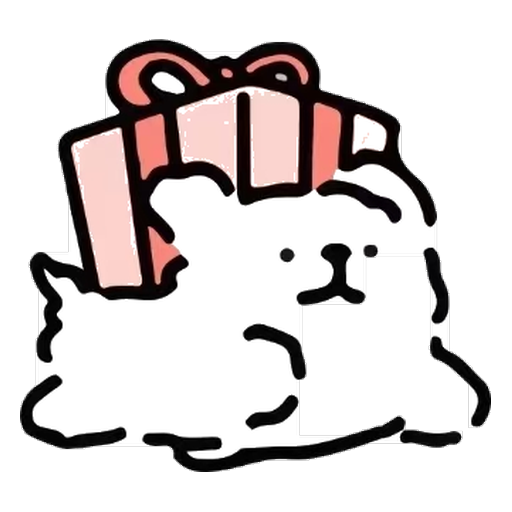
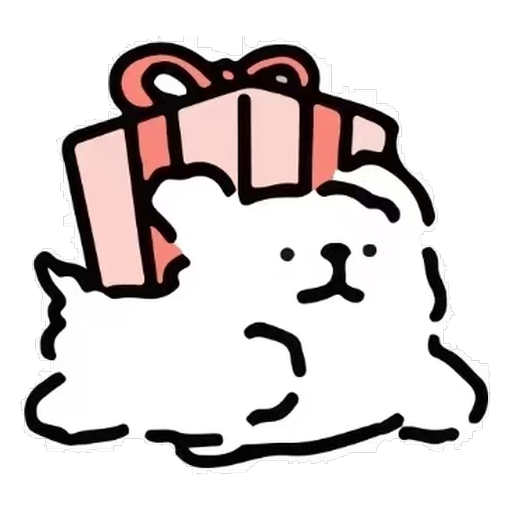
修好「坐坐狗」的抠图：背景 254 / 狗身 255 只差一级
04-raw.jpg 的背景是纯 254，狗身的白是 255，两者只差一级灰度。原来的容差
抠图把狗身那层白当成背景吃掉了，成品上狗身中间裂开一道缝（尾巴和身体断开）。

- tools/cutout.py 增加「精确背景色 + 从边缘连通」的分割方式，按图启用
  （EXACT_BG_SLUGS），只对背景极干净且与狗身白只差一级的图生效；
- 重新生成 assets/dogs/04-sit.png / .webp / parts.js / blur.js；
- 其它 9 只素材逐字节未变；physics / gameplay 自检全通过。

diff --git a/assets/dogs/blur.js b/assets/dogs/blur.js
@@ -1,7 +1,7 @@
 /* 自动生成，别手改 —— 改缩略图请跑 tools/make_blur.py */
 /* 贴图还没到位时画的极模糊占位（内联 data URL，零额外请求） */
 window.FRUIT_BLUR = {
[2 lines of base64/hex data omitted]
   cell: 32,
   cols: 10
 };

diff --git a/assets/dogs/parts.js b/assets/dogs/parts.js
@@ -1,3 +1,3 @@
 /* 自动生成，请勿手改 —— 由 tools/build_parts.py 生成
    parts: [ox, oy, s]，单位是「以 r 为 1」；rb: 碰撞包围圆半径（同样以 r 为单位） */
-window.SUIKA_PARTS = [{"parts":[[0.144,-0.289,0.29],[-0.34,0.17,0.201],[0.153,0.098,0.347],[0.331,0.149,0.311],[0.123,0.284,0.33],[0.331,0.284,0.257],[-0.106,-0.136,0.337],[0.403,-0.157,0.335],[0.645,0.17,0.292],[0.327,0.548,0.281],[-0.208,0.323,0.279],[-0.03,0.577,0.256],[0.11,-0.577,0.195],[-0.526,0.246,0.166],[0.594,0.459,0.126],[-0.081,-0.476,0.121],[0.352,-0.493,0.119],[-0.518,0.076,0.1]],"rb":0.96},{"parts":[[-0.306,-0.586,0.259],[-0.025,-0.34,0.322],[0.297,-0.34,0.288],[-0.306,-0.042,0.32],[0.068,-0.076,0.359],[0.297,-0.127,0.337],[-0.306,0.331,0.226],[-0.115,0.331,0.315],[0.297,0.331,0.221],[-0.246,0.62,0.318],[0.454,0.174,0.306],[0.518,-0.526,0.304],[0.17,-0.599,0.263],[0.633,-0.093,0.25],[-0.62,-0.106,0.233],[0.153,0.501,0.229],[0.526,0.471,0.212],[-0.463,-0.794,0.197]],"rb":1.116},{"parts":[[-0.335,-0.335,0.219],[-0.187,-0.335,0.336],[0.327,-0.335,0.278],[-0.335,0.017,0.347],[-0.055,0.047,0.374],[0.327,-0.242,0.3],[-0.335,0.327,0.211],[-0.089,0.327,0.345],[0.327,0.603,0.301],[0.318,0.059,0.413],[-0.2,-0.675,0.309],[0.607,-0.429,0.285],[-0.577,-0.234,0.262],[-0.671,0.115,0.251],[-0.217,0.65,0.242],[0.025,0.654,0.238],[-0.425,0.518,0.202],[-0.548,0.335,0.2]],"rb":1.028},{"parts":[[-0.34,-0.31,0.268],[-0.195,-0.31,0.345],[-0.361,0.255,0.324],[-0.166,-0.255,0.355],[0.331,-0.284,0.242],[-0.34,0.301,0.317],[-0.331,0.301,0.321],[-0.463,-0.059,0.34],[0.161,-0.11,0.337],[-0.607,0.476,0.331],[-0.149,0.569,0.331],[0.132,-0.45,0.321],[-0.352,-0.62,0.293],[-0.038,0.161,0.255],[-0.603,-0.374,0.228],[-0.722,0.161,0.204],[0.556,-0.195,0.193],[-0.072,-0.705,0.166]],"rb":1.102},{"parts":[[-0.539,-0.221,0.278],[-0.335,-0.221,0.217],[0.662,-0.255,0.239],[-0.34,-0.008,0.269],[-0.144,0.017,0.306],[0.331,0.0,0.261],[-0.535,0.217,0.266],[-0.127,0.217,0.24],[0.412,0.217,0.229],[0.115,-0.149,0.284],[0.127,0.166,0.284],[-0.684,0.437,0.221],[-0.777,-0.365,0.216],[0.548,0.403,0.212],[0.42,-0.246,0.166],[-0.132,-0.297,0.166],[-0.607,-0.501,0.154],[0.594,-0.025,0.14]],"rb":1.075},{"parts":[[-0.191,-0.246,0.265],[-0.34,0.238,0.204],[-0.017,0.055,0.322],[0.331,0.034,0.244],[-0.34,0.297,0.221],[-0.153,0.238,0.308],[0.166,-0.212,0.335],[0.149,0.335,0.308],[-0.331,-0.017,0.217],[-0.191,0.543,0.172],[-0.51,0.442,0.161],[-0.56,0.276,0.142],[0.323,0.59,0.123],[0.735,0.183,0.115],[0.548,0.149,0.106],[-0.395,-0.416,0.096],[0.429,-0.42,0.093],[-0.365,0.518,0.089]],"rb":0.872},{"parts":[[-0.34,-0.293,0.213],[0.204,-0.293,0.323],[0.331,-0.293,0.203],[-0.34,-0.204,0.301],[0.055,-0.195,0.349],[0.331,-0.183,0.313],[0.089,0.284,0.242],[0.633,-0.072,0.283],[-0.628,-0.11,0.279],[-0.318,-0.505,0.276],[-0.093,0.123,0.224],[0.293,-0.607,0.207],[-0.042,-0.531,0.187],[0.03,0.522,0.138],[0.467,-0.48,0.116],[0.276,0.127,0.108],[-0.9,-0.042,0.106],[-0.166,0.335,0.106]],"rb":1.007},{"parts":[[-0.654,-0.352,0.286],[0.055,-0.234,0.238],[0.662,-0.369,0.286],[-0.34,0.187,0.274],[0.055,0.085,0.313],[0.331,0.183,0.273],[-0.34,0.225,0.227],[-0.17,0.225,0.31],[0.331,0.225,0.228],[-0.259,-0.076,0.416],[0.357,-0.089,0.403],[0.144,0.386,0.297],[0.459,0.425,0.2],[-0.433,0.446,0.191],[-0.611,0.229,0.185],[0.611,0.225,0.183],[-0.119,0.531,0.153],[-0.272,0.552,0.119]],"rb":1.044},{"parts":[[-0.34,-0.357,0.267],[-0.106,-0.318,0.348],[-0.34,0.076,0.339],[-0.212,0.076,0.368],[-0.382,0.314,0.286],[-0.021,0.314,0.331],[0.331,0.556,0.279],[0.132,-0.064,0.395],[-0.051,-0.662,0.289],[-0.522,0.565,0.284],[-0.565,-0.501,0.267],[-0.675,0.021,0.257],[0.616,0.671,0.255],[0.217,-0.45,0.246],[-0.565,-0.212,0.238],[-0.238,0.565,0.234],[0.059,0.637,0.234],[-0.667,0.28,0.2]],"rb":1.165},{"parts":[[-0.437,-0.217,0.22],[-0.161,-0.217,0.27],[0.331,-0.221,0.205],[-0.34,-0.123,0.279],[-0.098,0.025,0.303],[0.331,-0.081,0.276],[-0.34,0.212,0.207],[-0.106,0.212,0.292],[0.331,0.212,0.183],[0.11,-0.251,0.297],[0.17,0.31,0.293],[-0.437,0.395,0.217],[-0.611,-0.059,0.212],[0.599,-0.004,0.194],[-0.577,-0.391,0.191],[0.459,-0.382,0.187],[0.794,0.025,0.17],[-0.824,-0.034,0.163]],"rb":0.988}];
+window.SUIKA_PARTS = [{"parts":[[0.144,-0.289,0.29],[-0.34,0.17,0.201],[0.153,0.098,0.347],[0.331,0.149,0.311],[0.123,0.284,0.33],[0.331,0.284,0.257],[-0.106,-0.136,0.337],[0.403,-0.157,0.335],[0.645,0.17,0.292],[0.327,0.548,0.281],[-0.208,0.323,0.279],[-0.03,0.577,0.256],[0.11,-0.577,0.195],[-0.526,0.246,0.166],[0.594,0.459,0.126],[-0.081,-0.476,0.121],[0.352,-0.493,0.119],[-0.518,0.076,0.1]],"rb":0.96},{"parts":[[-0.306,-0.586,0.259],[-0.025,-0.34,0.322],[0.297,-0.34,0.288],[-0.306,-0.042,0.32],[0.068,-0.076,0.359],[0.297,-0.127,0.337],[-0.306,0.331,0.226],[-0.115,0.331,0.315],[0.297,0.331,0.221],[-0.246,0.62,0.318],[0.454,0.174,0.306],[0.518,-0.526,0.304],[0.17,-0.599,0.263],[0.633,-0.093,0.25],[-0.62,-0.106,0.233],[0.153,0.501,0.229],[0.526,0.471,0.212],[-0.463,-0.794,0.197]],"rb":1.116},{"parts":[[-0.335,-0.335,0.219],[-0.187,-0.335,0.336],[0.327,-0.335,0.278],[-0.335,0.017,0.347],[-0.055,0.047,0.374],[0.327,-0.242,0.3],[-0.335,0.327,0.211],[-0.089,0.327,0.345],[0.327,0.603,0.301],[0.318,0.059,0.413],[-0.2,-0.675,0.309],[0.607,-0.429,0.285],[-0.577,-0.234,0.262],[-0.671,0.115,0.251],[-0.217,0.65,0.242],[0.025,0.654,0.238],[-0.425,0.518,0.202],[-0.548,0.335,0.2]],"rb":1.028},{"parts":[[-0.335,-0.314,0.265],[-0.157,-0.314,0.35],[-0.335,0.276,0.324],[-0.017,0.098,0.365],[0.331,0.238,0.299],[-0.335,0.306,0.313],[-0.093,0.306,0.354],[0.331,0.386,0.311],[0.178,-0.212,0.527],[-0.386,-0.047,0.381],[-0.586,0.497,0.288],[-0.31,-0.633,0.282],[0.102,0.603,0.267],[-0.161,0.654,0.258],[-0.662,0.217,0.25],[0.611,0.526,0.249],[-0.594,-0.369,0.225],[0.616,0.144,0.203]],"rb":1.056},{"parts":[[-0.539,-0.221,0.278],[-0.335,-0.221,0.217],[0.662,-0.255,0.239],[-0.34,-0.008,0.269],[-0.144,0.017,0.306],[0.331,0.0,0.261],[-0.535,0.217,0.266],[-0.127,0.217,0.24],[0.412,0.217,0.229],[0.115,-0.149,0.284],[0.127,0.166,0.284],[-0.684,0.437,0.221],[-0.777,-0.365,0.216],[0.548,0.403,0.212],[0.42,-0.246,0.166],[-0.132,-0.297,0.166],[-0.607,-0.501,0.154],[0.594,-0.025,0.14]],"rb":1.075},{"parts":[[-0.191,-0.246,0.265],[-0.34,0.238,0.204],[-0.017,0.055,0.322],[0.331,0.034,0.244],[-0.34,0.297,0.221],[-0.153,0.238,0.308],[0.166,-0.212,0.335],[0.149,0.335,0.308],[-0.331,-0.017,0.217],[-0.191,0.543,0.172],[-0.51,0.442,0.161],[-0.56,0.276,0.142],[0.323,0.59,0.123],[0.735,0.183,0.115],[0.548,0.149,0.106],[-0.395,-0.416,0.096],[0.429,-0.42,0.093],[-0.365,0.518,0.089]],"rb":0.872},{"parts":[[-0.34,-0.293,0.213],[0.204,-0.293,0.323],[0.331,-0.293,0.203],[-0.34,-0.204,0.301],[0.055,-0.195,0.349],[0.331,-0.183,0.313],[0.089,0.284,0.242],[0.633,-0.072,0.283],[-0.628,-0.11,0.279],[-0.318,-0.505,0.276],[-0.093,0.123,0.224],[0.293,-0.607,0.207],[-0.042,-0.531,0.187],[0.03,0.522,0.138],[0.467,-0.48,0.116],[0.276,0.127,0.108],[-0.9,-0.042,0.106],[-0.166,0.335,0.106]],"rb":1.007},{"parts":[[-0.654,-0.352,0.286],[0.055,-0.234,0.238],[0.662,-0.369,0.286],[-0.34,0.187,0.274],[0.055,0.085,0.313],[0.331,0.183,0.273],[-0.34,0.225,0.227],[-0.17,0.225,0.31],[0.331,0.225,0.228],[-0.259,-0.076,0.416],[0.357,-0.089,0.403],[0.144,0.386,0.297],[0.459,0.425,0.2],[-0.433,0.446,0.191],[-0.611,0.229,0.185],[0.611,0.225,0.183],[-0.119,0.531,0.153],[-0.272,0.552,0.119]],"rb":1.044},{"parts":[[-0.34,-0.357,0.267],[-0.106,-0.318,0.348],[-0.34,0.076,0.339],[-0.212,0.076,0.368],[-0.382,0.314,0.286],[-0.021,0.314,0.331],[0.331,0.556,0.279],[0.132,-0.064,0.395],[-0.051,-0.662,0.289],[-0.522,0.565,0.284],[-0.565,-0.501,0.267],[-0.675,0.021,0.257],[0.616,0.671,0.255],[0.217,-0.45,0.246],[-0.565,-0.212,0.238],[-0.238,0.565,0.234],[0.059,0.637,0.234],[-0.667,0.28,0.2]],"rb":1.165},{"parts":[[-0.437,-0.217,0.22],[-0.161,-0.217,0.27],[0.331,-0.221,0.205],[-0.34,-0.123,0.279],[-0.098,0.025,0.303],[0.331,-0.081,0.276],[-0.34,0.212,0.207],[-0.106,0.212,0.292],[0.331,0.212,0.183],[0.11,-0.251,0.297],[0.17,0.31,0.293],[-0.437,0.395,0.217],[-0.611,-0.059,0.212],[0.599,-0.004,0.194],[-0.577,-0.391,0.191],[0.459,-0.382,0.187],[0.794,0.025,0.17],[-0.824,-0.034,0.163]],"rb":0.988}];
